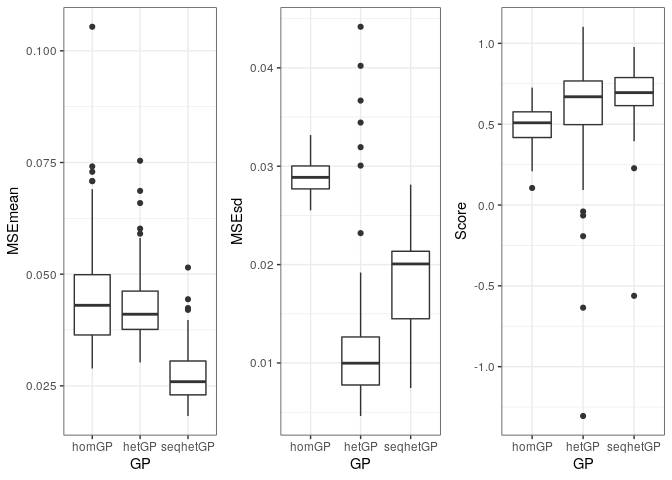
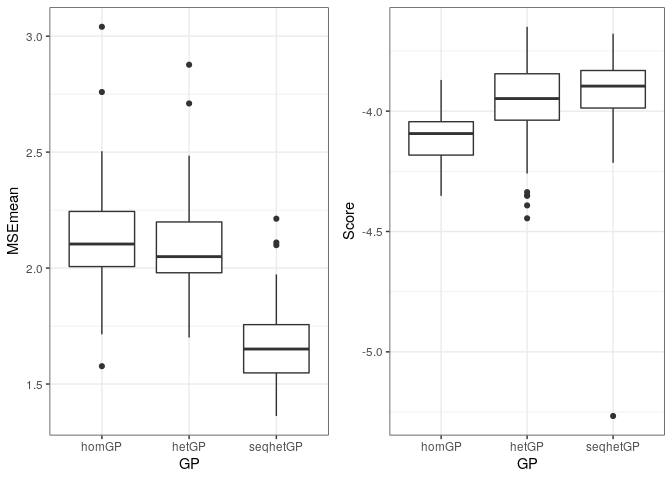
regenerate md for emulation

diff --git a/OceanExampleEmulation2D.md b/OceanExampleEmulation2D.md
@@ -1,7 +1,7 @@
 Ocean Example
 ================
 Pierre Barbillon
-June 16, 2020
+June 29, 2020
 
 ``` r
 library(ggplot2)
@@ -158,8 +158,7 @@ gridhetseq$psd = gridhetseq$psd * sqrt(Zv)
 gridhetseq$nug = gridhetseq$nug * Zv
 ```
 
-Plots for
-homGP
+Plots for homGP
 
 ``` r
 ggplot(gridHom, aes(long, lat)) + geom_raster(aes(fill = mean), interpolate = TRUE) + scale_fill_gradientn(colours=matlab.like(10),limits=c(min(gridHom$mean,gridhet$mean),max(gridHom$mean,gridhet$mean)))
@@ -173,8 +172,7 @@ ggplot(gridHom, aes(long, lat)) + geom_raster(aes(fill = psd), interpolate = TRU
 
 ![](OceanExampleEmulation2D_files/figure-gfm/plot%20homgp-2.png)<!-- -->
 
-Plots for
-hetGP
+Plots for hetGP
 
 ``` r
 ggplot(gridhet, aes(long, lat)) + geom_raster(aes(fill = mean), interpolate = TRUE) +scale_fill_gradientn(colours=matlab.like(10),limits=c(min(gridHom$mean,gridhet$mean),max(gridHom$mean,gridhet$mean)))
@@ -188,8 +186,7 @@ ggplot(gridhet, aes(long, lat)) + geom_raster(aes(fill = psd), interpolate = TRU
 
 ![](OceanExampleEmulation2D_files/figure-gfm/plot%20hetgp-2.png)<!-- -->
 
-Plots for
-SeqhetGP
+Plots for SeqhetGP
 
 ``` r
 ggplot(gridhetseq, aes(long, lat)) + geom_raster(aes(fill = mean), interpolate = TRUE) + scale_fill_gradientn(colours=matlab.like(10))
@@ -237,50 +234,38 @@ predHetseq = predict(x = testdesign, object = seqGhet)
 Ztest.mean.N = (Ztest.mean - Zm)/sqrt(Zv)
 Ztest.sd.N = Ztest.sd/sqrt(Zv)
 
-# MSE for the mean
-msehom = mean(((predhom$mean-Ztest.mean.N))^2)
-msehet = mean(((predhet$mean-Ztest.mean.N))^2)
-msehetseq = mean(((predHetseq$mean-Ztest.mean.N))^2)
+# RMSE for the mean
+rmsehom = sqrt(mean(((predhom$mean-Ztest.mean.N))^2)*Zv)
+rmsehet = sqrt(mean(((predhet$mean-Ztest.mean.N))^2)*Zv)
+rmsehetseq = sqrt(mean(((predHetseq$mean-Ztest.mean.N))^2)*Zv)
 
-#MSE for sd
-msehomsd = mean(((sqrt(predhom$nugs)-Ztest.sd.N))^2)
-msehetsd = mean(((sqrt(predhet$nugs)-Ztest.sd.N))^2)
-msehetseqsd = mean(((sqrt(predHetseq$nugs)-Ztest.sd.N))^2)
 
 # scores for the prediction of a single run of the simulator
 Ztest = (apply(testdesign,1,simulator)-Zm)/sqrt(Zv) # for computing scores on a single realization of the simulator
-schom = mean(-(Ztest-predhom$mean)^2/(predhom$sd2+predhom$nugs) -log(predhom$sd2+predhom$nugs))
-schet = mean(-(Ztest-predhet$mean)^2/(predhet$sd2+predhet$nugs) -log(predhet$sd2+predhet$nugs))
-schetseq = mean(-(Ztest-predHetseq$mean)^2/(predHetseq$sd2+predHetseq$nugs) -log(predHetseq$sd2+predHetseq$nugs))
+schom = mean(-(Ztest-predhom$mean)^2/(predhom$sd2+predhom$nugs) -log(predhom$sd2+predhom$nugs) - log(Zv))
+schet = mean(-(Ztest-predhet$mean)^2/(predhet$sd2+predhet$nugs) -log(predhet$sd2+predhet$nugs)- log(Zv))
+schetseq = mean(-(Ztest-predHetseq$mean)^2/(predHetseq$sd2+predHetseq$nugs) -log(predHetseq$sd2+predHetseq$nugs)- log(Zv))
 ```
 
 We compute the mean square error and the score for a prediction of a run
 of the simulator.
 
 ``` r
-c(msehom=msehom,msehet=msehet,msehetseq=msehetseq)
+c(rmsehom=rmsehom,rmsehet=rmsehet,rmsehetseq=rmsehetseq)
 ```
 
-    ##     msehom     msehet  msehetseq 
-    ## 0.03965506 0.03695992 0.02293363
-
-``` r
-c(msehom=msehomsd,msehet=msehetsd,msehetseq=msehetseqsd)
-```
-
-    ##     msehom     msehet  msehetseq 
-    ## 0.02629828 0.01164999 0.02054881
+    ##    rmsehom    rmsehet rmsehetseq 
+    ##   2.056197   1.985094   1.563694
 
 ``` r
 c(scorehom=schom,scorehet=schet,scorehetseq=schetseq)
 ```
 
     ##    scorehom    scorehet scorehetseq 
-    ##   0.6703442   0.7890090   0.8355525
+    ##   -3.998909   -3.880244   -3.833701
 
 To check the accuracy of the emulators, we plot the mean and the sd of
-the Ocean simulator obtained from the test
-design:
+the Ocean simulator obtained from the test design:
 
 ``` r
 ggplot(test,aes(x=long,y=lat,col=m))+geom_point()+scale_color_gradientn(colours=matlab.like(10),limits=c(min(gridHom$mean,gridhet$mean),max(gridHom$mean,gridhet$mean)))+theme_bw()
@@ -311,20 +296,9 @@ MSE = melt(RES[,1:3])
 
 ``` r
 names(MSE) = c("GP","MSEmean")
-MSE$GP =revalue(MSE$GP, c("msehom"="homGP", "msehet"="hetGP","msehetseq"="seqhetGP"))
+MSE$GP =revalue(MSE$GP, c("rmsehom"="homGP", "rmsehet"="hetGP","rmsehetseq"="seqhetGP"))
 p1=ggplot(MSE,aes(x=GP,y=MSEmean))+theme_bw()+geom_boxplot()
 
-
-# MSE sd
-MSEsd = melt(RES[,4:6])
-```
-
-    ## No id variables; using all as measure variables
-
-``` r
-names(MSEsd) = c("GP","MSEsd")
-MSEsd$GP =revalue(MSEsd$GP, c("msehomsd"="homGP", "msehetsd"="hetGP","msehetseqsd"="seqhetGP"))
-p2=ggplot(MSEsd,aes(x=GP,y=MSEsd))+theme_bw()+geom_boxplot()
 
 
 
@@ -339,7 +313,7 @@ names(Score) = c("GP","Score")
 Score$GP =revalue(Score$GP, c("scorehom"="homGP", "scorehet"="hetGP","scorehetseq"="seqhetGP"))
 p3=ggplot(Score,aes(x=GP,y=Score))+theme_bw()+geom_boxplot()
 
-grid.arrange(p1,p2,p3,nrow=1)
+grid.arrange(p1,p3,nrow=1)
 ```
 
 ![](OceanExampleEmulation2D_files/figure-gfm/replications-1.png)<!-- -->
@@ -354,7 +328,7 @@ table(apply(MSE,1,which.min))
 
     ## 
     ##  1  2  3 
-    ##  4  2 94
+    ##  2  4 94
 
 ``` r
 Score = (RES[,7:9])
@@ -363,4 +337,4 @@ table(apply(Score,1,which.max))
 
     ## 
     ##  2  3 
-    ## 44 56
+    ## 42 58
